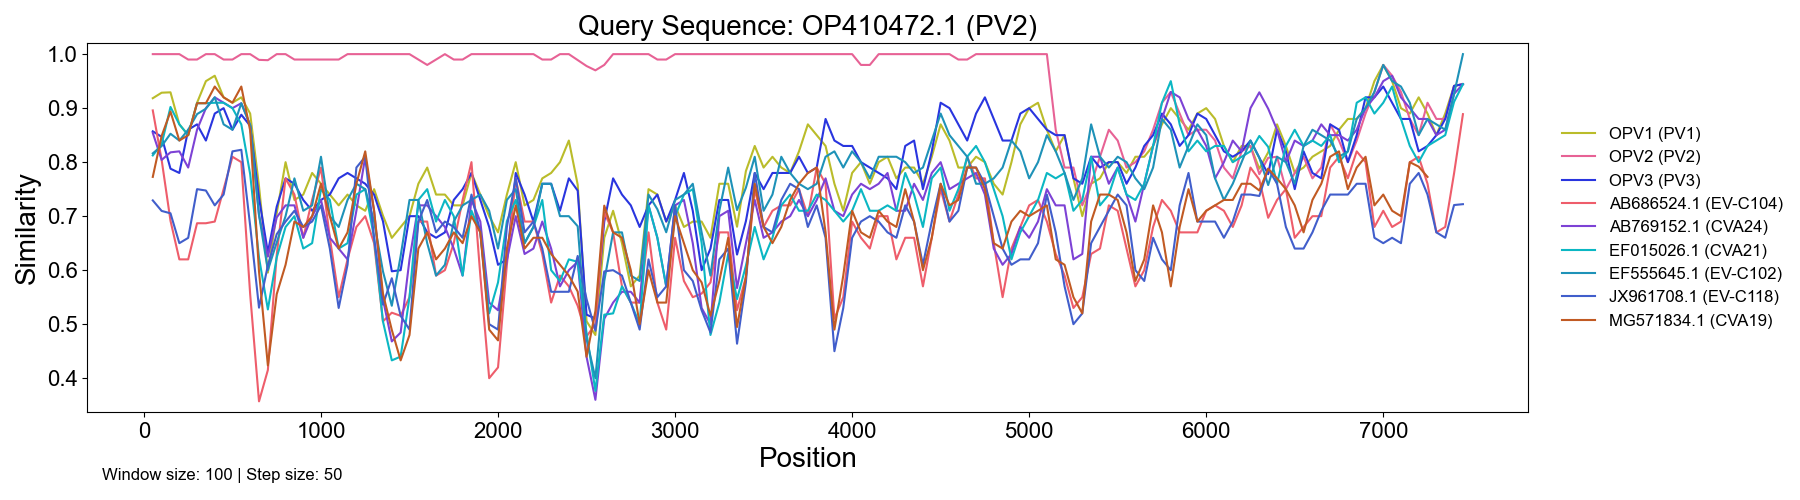
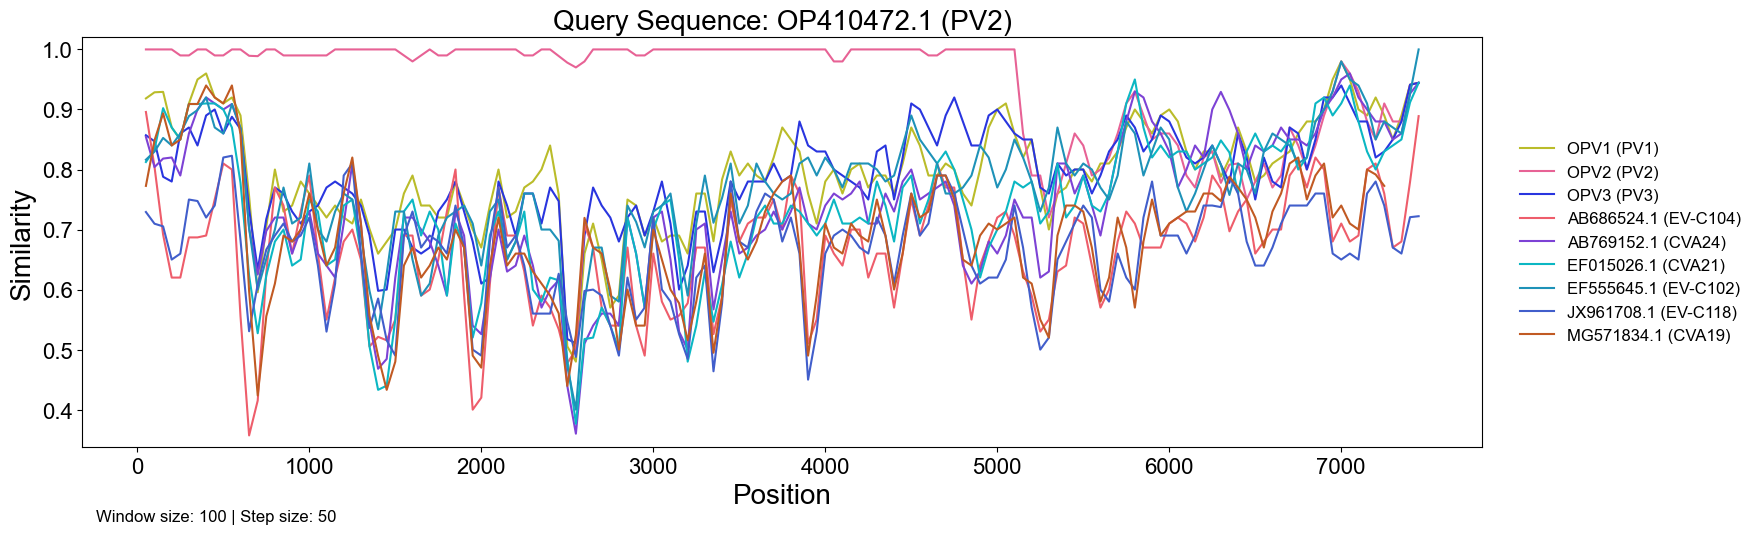
Adjusted legend positioning and handling lower/uppercase characters

diff --git a/scripts/simplot.py b/scripts/simplot.py
@@ -37,7 +37,9 @@ def get_args():
     parser.add_argument("-t", "--threads", type=int, default=1, help="Number of threads to use for MAFFT alignment (default: 1).")
     parser.add_argument("-f", "--outformat", default="png", help="Output file format for the plots (png/jpg/pdf/svg, default: png).")
     parser.add_argument("-p", "--outplots", default="simplots", help="Output directory for similarity plots (default: simplots).")
-    parser.add_argument("-o", "--outcsv", default=None, help="Output directory for tables with similarity results for each query; if not provided, tables will not be saved.")
+    parser.add_argument("-o", "--outcsv", default=None, help="Output directory for tables with similarity results for each query (optional). If not provided, tables will not be saved.")
+    parser.add_argument("-oa", "--outaln", default=None, help="Output file for alignment in fasta format (optional). If not provided, the alignment will not be saved.")
+
     
     # Register autocompletion
     argcomplete.autocomplete(parser)
@@ -276,9 +278,36 @@ def assign_colors(results_df, metadata=None, metadata_id_col=None, metadata_geno
 # Function to generate and save the SimPlots
 def plot_simplot(results_df, outdir, outformat, query_genotype=None, windowsize=None, stepsize=None):
 
-    # Make the similarity plot
-    fig, ax = plt.subplots(figsize=(18, 5))
-    
+    # Fixed physical size for the plot (axes) in inches
+    axes_width_in = 14.0   # physical width of the plotting area
+    fig_height_in = 5.0    # physical height of the figure (including margins)
+
+    # Base margins and paddings (in inches)
+    base_left_margin_in = 0.6
+    right_padding_in = 0.4
+    top_margin_in = 0.3
+    bottom_margin_in = 0.6
+
+    # Legend gap (extra space between axes and legend) in inches
+    legend_gap_in = 0.4  # increase this to add more space between axes and legend
+
+    # Compute axes physical height
+    axes_height_in = fig_height_in - top_margin_in - bottom_margin_in
+    if axes_height_in <= 0:
+        axes_height_in = fig_height_in * 0.8
+
+    # Start with a temporary extra space for legend (will be adjusted)
+    temp_legend_space_in = 2.0
+    initial_fig_width = base_left_margin_in + axes_width_in + temp_legend_space_in + right_padding_in
+
+    fig = plt.figure(figsize=(initial_fig_width, fig_height_in))
+    ax = fig.add_axes([
+        base_left_margin_in / initial_fig_width,
+        bottom_margin_in / fig_height_in,
+        axes_width_in / initial_fig_width,
+        axes_height_in / fig_height_in,
+    ])
+
     # Get IDs of reference sequences (plotting one line for each)
     reference_seqs = results_df["seq2"].unique()
 
@@ -286,11 +315,11 @@ def plot_simplot(results_df, outdir, outformat, query_genotype=None, windowsize=
     query_seq = results_df["seq1"].values[0]
     if query_genotype:
         query_seq = f"{query_seq} ({query_genotype})"
-    
+
     # Keep track of how many times each color has been used
     color_counts = {}
-    line_styles = ['-', '--', '-.', ':'] # If the same color is used multiple times, use different line styles
-    
+    line_styles = ['-', '--', '-.', ':']  # If the same color is used multiple times, use different line styles
+
     # Plot similarity for each reference sequence
     for seq in reference_seqs:
         seq_results = results_df[results_df["seq2"] == seq]
@@ -316,18 +345,66 @@ def plot_simplot(results_df, outdir, outformat, query_genotype=None, windowsize=
         color_counts[color] = count + 1
 
         ax.plot(seq_results["step"], seq_results["similarity"], label=label, color=color, linestyle=linestyle)
-    
+
     ax.set_title(f"Query Sequence: {query_seq}", fontsize=20)
     ax.set_xlabel("Position", fontsize=20)
     ax.set_ylabel("Similarity", fontsize=20)
+
     ncol = 2 if len(reference_seqs) > 14 else 1
-    ax.legend(
-        loc="center",                   # Center the legend box itself
-        bbox_to_anchor=(1.1, 0.5),      # Position relative to the right side of the plot
+
+    # Create a temporary legend to measure its size
+    legend = ax.legend(
+        loc="center left",
+        bbox_to_anchor=(1.0, 0.5),
         fontsize=12,
         ncol=ncol,
-        borderaxespad=0,                # Space between the legend and the axes
-        frameon=False                   # Remove the frame for a cleaner look
+        borderaxespad=0,
+        frameon=False,
+    )
+
+    # Draw canvas to compute sizes in pixels
+    fig.canvas.draw()
+    renderer = fig.canvas.get_renderer()
+
+    # Measure legend width in inches
+    legend_bb = legend.get_window_extent(renderer=renderer)
+    legend_width_in = legend_bb.width / fig.dpi
+
+    # Measure y-axis label and tick label widths to ensure left margin is sufficient
+    try:
+        ylabel_bb = ax.yaxis.get_label().get_window_extent(renderer=renderer)
+        ylabel_width_in = ylabel_bb.width / fig.dpi
+    except Exception:
+        ylabel_width_in = 0.0
+
+    # Some tick labels may be empty; consider only visible ones
+    ytick_bboxes = [t.get_window_extent(renderer=renderer) for t in ax.get_yticklabels() if t.get_text() != ""]
+    max_ytick_width_in = max((bb.width for bb in ytick_bboxes), default=0.0) / fig.dpi
+
+    # Compute required left margin: ensure there's enough space for ticks + ylabel + a small padding
+    required_label_space_in = max(ylabel_width_in, max_ytick_width_in)
+    desired_left_margin_in = max(base_left_margin_in, required_label_space_in + 0.35)  # 0.35in padding
+
+    # Compute the new figure width so that axes keep their physical size and legend has enough space
+    new_fig_width = desired_left_margin_in + axes_width_in + legend_gap_in + legend_width_in + right_padding_in
+
+    # Resize the figure and recompute axes position so the axes keep their physical size
+    fig.set_size_inches(new_fig_width, fig_height_in)
+
+    # Recompute axes position in figure-relative coordinates and set it
+    new_left = desired_left_margin_in / new_fig_width
+    new_axes_width_frac = axes_width_in / new_fig_width
+    ax.set_position([new_left, bottom_margin_in / fig_height_in, new_axes_width_frac, axes_height_in / fig_height_in])
+
+    # Remove and recreate legend so it is placed correctly after resizing and with extra gap
+    legend.remove()
+    legend = ax.legend(
+        loc="center left",
+        bbox_to_anchor=(1.0 + (legend_gap_in / new_fig_width), 0.5),
+        fontsize=12,
+        ncol=ncol,
+        borderaxespad=0,
+        frameon=False,
     )
 
     # Plot parameter choices in the bottom left corner of the plot (window size, step size)
@@ -338,9 +415,12 @@ def plot_simplot(results_df, outdir, outformat, query_genotype=None, windowsize=
     ax.tick_params(axis="both", which="major", labelsize=16)
     y_min = results_df["similarity"].min() - 0.02
     ax.set_ylim(y_min, 1.02)
-    query_seq = query_seq.replace(" ", "_").replace("(", "").replace(")", "").replace("-", "")
-    plt.tight_layout()
-    plt.savefig(f"{outdir}/{query_seq}_simplot.{outformat}")
+
+    # Clean file-safe query name
+    query_seq_fname = query_seq.replace(" ", "_").replace("(", "").replace(")", "").replace("-", "")
+
+    # Save using the current figure size (which accounts for legend)
+    plt.savefig(f"{outdir}/{query_seq_fname}_simplot.{outformat}", dpi=fig.dpi, bbox_inches="tight")
     ax.clear()
     plt.close(fig)
 
@@ -351,6 +431,8 @@ def main():
 
     # Read query sequences
     query_sequences = list(SeqIO.parse(args.sequences, "fasta"))
+    for record in query_sequences:    # Convert to uppercase and replace any Us with Ts
+        record.seq = record.seq.upper().replace("U", "T")
 
     # Read metadata if provided
     if args.metadata:
@@ -412,6 +494,9 @@ def main():
             # Check if query and reference alignments have the same length
             if len(query_sequences[0].seq) != len(reference_sequences[0].seq):
                 raise ValueError("Query and reference alignments must be of the same length.")
+            
+            if args.outaln:
+                print("[WARN] --outaln specified but --no-align flag is set. Skipping alignment output since no alignment was performed.")
 
         else:
             print(f"[INFO] Aligning query and reference sequences using MAFFT ...")
@@ -422,7 +507,11 @@ def main():
                 SeqIO.write(query_sequences + reference_sequences, out_f, "fasta")
 
             # Run MAFFT
-            aligned_fasta = "temp_aligned_sequences.fasta"
+            # Check if user provided an output file for the alignment; if not, use a temporary file that will be deleted after reading the aligned sequences
+            if args.outaln:
+                aligned_fasta = args.outaln
+            else:
+                aligned_fasta = "temp_aligned_sequences.fasta"
             run_mafft(combined_fasta, aligned_fasta, threads=args.threads)
 
             # Read aligned sequences
@@ -433,10 +522,14 @@ def main():
             query_sequences = [record for record in aligned_sequences if record.id in query_ids]
             reference_sequences = [record for record in aligned_sequences if record.id not in query_ids]
 
+
+            print(f"[INFO] Alignment completed.")
             # Remove temporary files
             os.remove(combined_fasta)
-            os.remove(aligned_fasta)
-            print(f"[INFO] Alignment completed.")
+            if not args.outaln:
+                os.remove(aligned_fasta)
+            else:
+                print(f"[INFO] Aligned sequences saved to {args.outaln}.")
 
         
         # Check if metadata covers all reference sequences
@@ -501,19 +594,27 @@ def main():
         # If no-align flag is set, skip MAFFT alignment (assume sequences are already aligned)
         if args.no_align:
             print(f"[INFO] Alignment skipped (--no-align specified). Assuming sequences are already aligned.")
+
+            if args.outaln:
+                print("[WARN] --outaln specified but --no-align flag is set. Skipping alignment output since no alignment was performed.")
         else:
             print(f"[INFO] Aligning sequences using MAFFT ...")
 
             # Run MAFFT
-            aligned_fasta = "temp_aligned_sequences.fasta"
+            if args.outaln:
+                aligned_fasta = args.outaln
+            else:
+                aligned_fasta = "temp_aligned_sequences.fasta"
             run_mafft(args.sequences, aligned_fasta, threads=args.threads)
 
             # Read aligned query sequences
             query_sequences = list(SeqIO.parse(aligned_fasta, "fasta"))
 
-            # Remove temporary file
-            os.remove(aligned_fasta)
             print(f"[INFO] Alignment completed.")
+            if not args.outaln:
+                os.remove(aligned_fasta) # Remove temporary file
+            else:
+                print(f"[INFO] Aligned sequences saved to {args.outaln}.")
 
         query_id = args.query_id
         print(f"[INFO] Processing query sequence: {query_id}")
